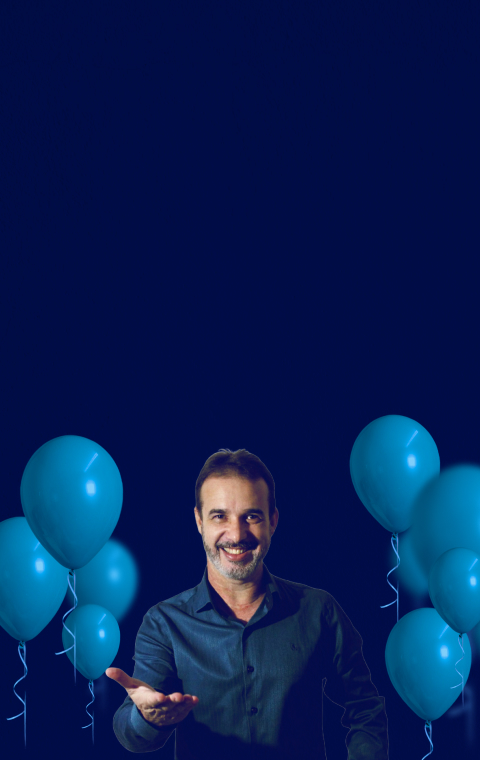
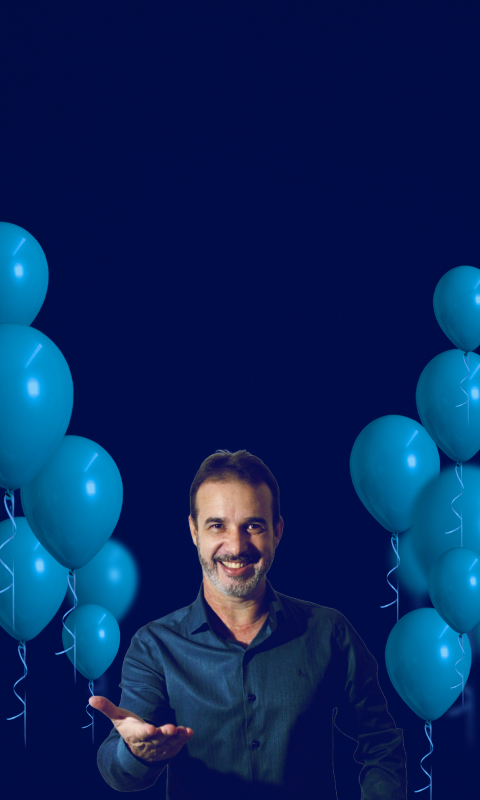
Adicionando media query sm na thankYouPage

diff --git a/src/pages/thank/thankYouPage.js b/src/pages/thank/thankYouPage.js
@@ -11,28 +11,46 @@ const useStyles = makeStyles()((theme) => {
         backgroundAttachment: 'fixed',
         backgroundSize: 'cover',
         backgroundPosition: 'center center',
+        [theme.breakpoints.down('sm')]: {
+          backgroundImage: 'url(/images/thankyouPageBGSm.jpg)',
+        }
       },
       box: {
         padding: '80px 0 180px',
         height: '900px',
+        minHeight: '800px'
       },
       title: {
         fontSize: '48px',
         fontWeight: 'bold',
         marginBottom: '16px',
         width: '430px',
+        [theme.breakpoints.down('sm')]: {
+          width: '320px',
+        }
       },
       name: {
         fontSize: '24px',
+        lineHeight: '34px',
         fontWeight: 'bold',
         marginBottom: '40px',
         width: '430px',
-        color: theme.palette.quaternary.main
+        color: theme.palette.quaternary.main,
+        [theme.breakpoints.down('sm')]: {
+          width: '320px',
+          fontSize: '16px',
+          lineHeight: '26px',
+        }
       },
       text: {
         fontSize: '24px',
         marginBottom: '80px',
         width: '430px',
+        [theme.breakpoints.down('sm')]: {
+          width: '320px',
+          fontsize: '16px',
+          lineHeight: '26px',
+        }
       },
       button: {
         height: '60px',
